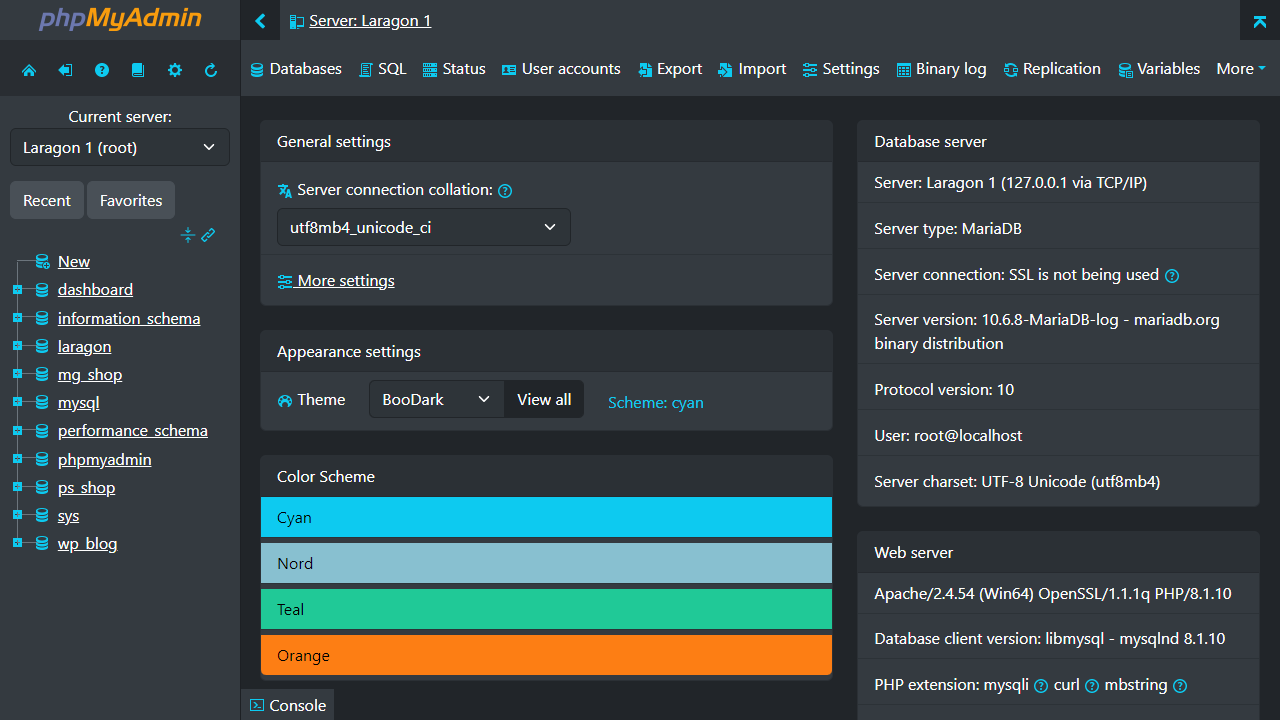
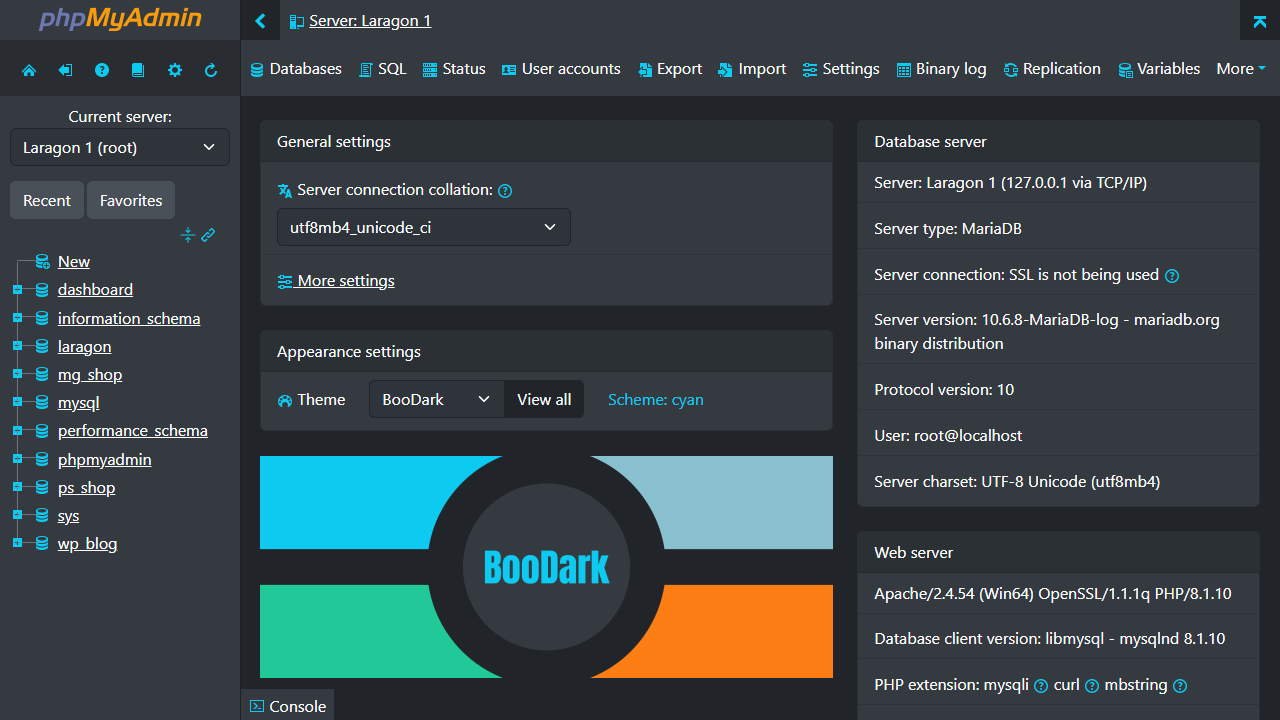
docs(screen): add animated screen

Changed region(s): [[0.1875, 0.6111, 0.6562, 0.9472], [0.4688, 0.55, 0.5625, 0.5806], [0.1875, 0.9778, 0.25, 1.0]]

diff --git a/README.md b/README.md
@@ -1,6 +1,6 @@
 # BooDark
 
-![Screenshot](themes/boodark/screen.png)
+![Screenshot](themes/boodark/screen-animated.png)
 
 [![GitHub package.json version](https://img.shields.io/github/package-json/v/adorade/boodark?color=green&logo=github)](https://github.com/adorade/boodark/blob/main/package.json)
 [![license](https://img.shields.io/github/license/adorade/boodark)](https://mit-license.org)
